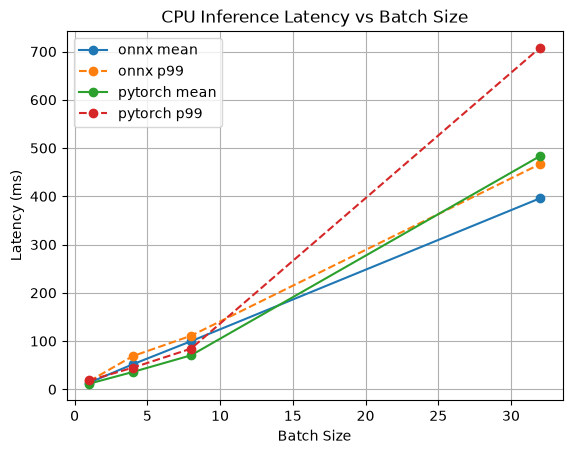
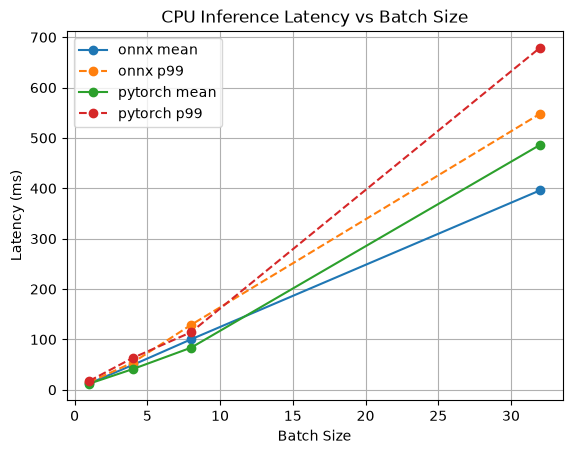
corrected an error that affect test results

diff --git a/README.md b/README.md
@@ -270,7 +270,25 @@ ML_inf_and_serving/
 ├── app/
 │   ├── __init__.py
 │   ├── main.py
-│   └──model.py
+│   └── model.py
+│
+├── benchmarks/
+│   ├── benchmark.py
+│   ├── prepare_input.py
+│   ├── run_suite.sh
+│   ├── summarize_results.py
+│   ├── plot_results.py
+│   │
+│   ├── results/
+│   │   ├── results_test1.csv
+│   │   ├── results_test2.csv
+│   │   ├── results_test3.csv
+│   │   └── summary.csv
+│   │
+│   └── plots/
+│       ├── throughput_vs_batch.png
+│       ├── latency_vs_batch.png
+│       └── memory_vs_batch.png
 │
 ├── images/
 │   ├── ball.jpg
@@ -283,7 +301,9 @@ ML_inf_and_serving/
 │
 ├── scripts/
 │   ├── export_to_onnx.py
-│   └── verify_onnx.py
+│   ├── verify_onnx.py
+│   ├── onnx_shape.py
+│   └── verify_batch.py
 │
 ├── predict_data.py
 ├── requirements.txt
